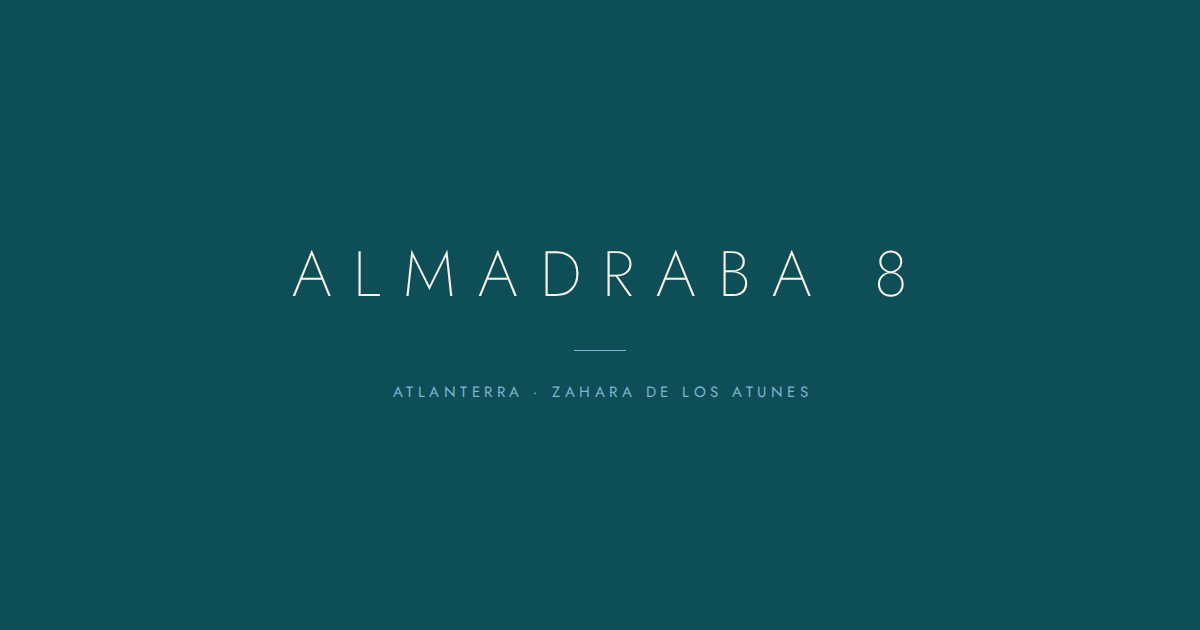
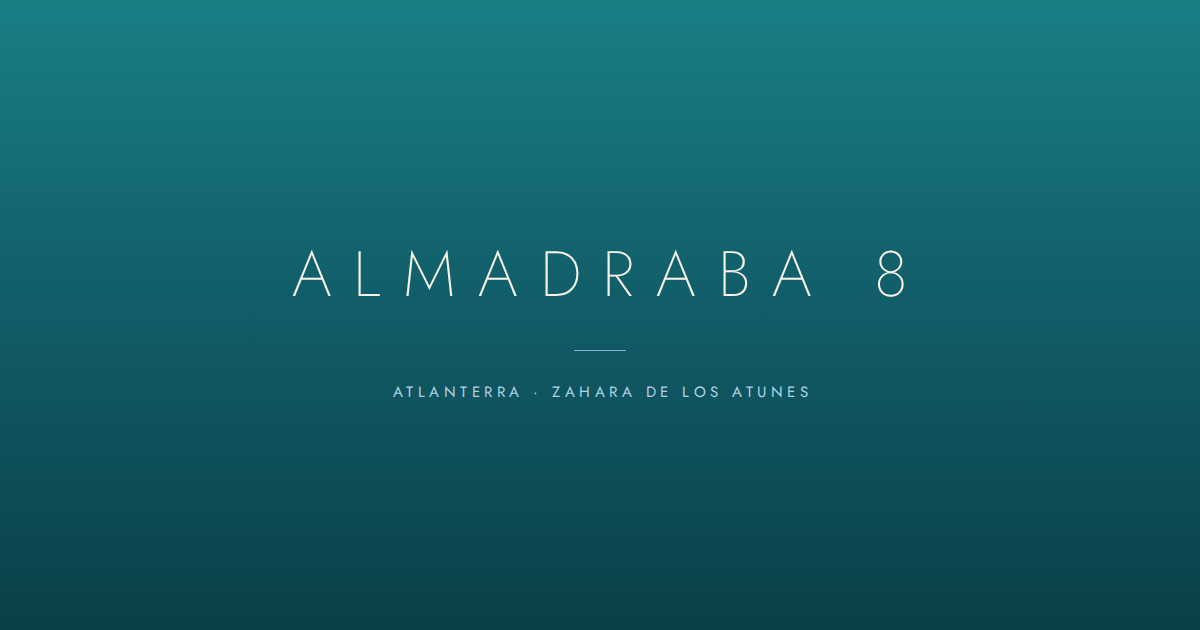
Paleta «mar, cielo y arena»: la marca deja de leer verde pino
El #12706C aprobado es cian (tono 177°), pero a L*42 el ojo no dispone
de la categoría «turquesa» para un cian oscuro y lo lee como pino.
Además el turquesa mar y el azul cielo solo aparecían en estados hover,
así que la superficie con color de la web era íntegramente cian oscuro.

- Tinta de marca a #15747F (tono 186°, hacia el mar) manteniendo el
  mismo peso: 4,62:1 sobre arena.
- Banda de disponibilidad de #0E4E56 a #115F6B, y pie a #0B3F47:
  la página termina en mar hondo, no en carbón verdoso.
- Degradado del hero reescrito: cielo arriba, turquesa mar en medio,
  mar abajo, en lugar de petróleo plano.
- Turquesa mar con papel real: separador de la vivienda, estado LIBRE
  (en #8FD8D3, legible sobre la banda) y hovers sobre fondo oscuro.
- Kicker de #8A8071 a #716A5C: el original daba 3,27:1 y no cumplía AA.
- Regla nueva de interacción: sobre fondo claro el hover profundiza,
  sobre fondo oscuro aclara.

El turquesa mar no puede ser tinta de texto (2,46:1 sobre arena), así
que domina como superficie. Los 19 pares de texto del sitio quedan
verificados a WCAG AA. Favicon y OG regenerados con los colores nuevos.
El manual archivado conserva la paleta original; CLAUDE.md documenta
la revisión y el motivo.

Claude-Session: https://claude.ai/code/session_01BjvcUjNyTZDfZqHgy6SqCo

diff --git a/src/styles/global.css b/src/styles/global.css
@@ -26,24 +26,31 @@
 }
 
 :root {
-  /* Color */
-  --sand: #F3EBDA;
-  --sand-2: #E5DAC2;
-  --sand-3: #F8F3E7;
-  --teal: #12706C;
-  --teal-light: #3AA79F;
-  --sky: #7FB4D4;
-  --night: #0E4E56;
+  /* Color — «mar, cielo y arena»
+     El turquesa domina como SUPERFICIE (banda, degradado, acentos);
+     la tinta de texto se mantiene lo bastante profunda para cumplir
+     WCAG AA (4.5:1). Todos los pares verificados. */
+  --sand: #F3EBDA;         /* arena de playa — fondo */
+  --sand-2: #E5DAC2;       /* arena media — banda secundaria */
+  --sand-3: #F8F3E7;       /* arena clara — campos y superficies */
+  --teal: #15747F;         /* tinta de marca — mar profundo (186°) */
+  --teal-deep: #0E5A63;    /* hover de botón primario */
+  --sea: #3AA79F;          /* turquesa mar — acentos y filetes sobre claro */
+  --sea-light: #8FD8D3;    /* turquesa legible sobre fondo oscuro */
+  --sky: #7FB4D4;          /* azul cielo */
+  --sky-on-dark: #AFD3E6;  /* cielo legible sobre fondo oscuro */
+  --night: #115F6B;        /* mar al atardecer — fondo de banda */
+  --abyss: #0B3F47;        /* mar hondo — pie y texto sobre cielo */
   --dune: #B7A98C;
   --ink: #26312F;
   --ink-soft: #5C6C69;
-  --muted: #8A8071;
+  --muted: #716A5C;        /* kickers — oscurecido para cumplir AA */
   --line: #E2D8C1;
   --line-2: #DACFB6;
   --line-3: #C9BC9E;
   --on-dark: #F8F3E7;
-  --on-dark-soft: #BFD4D6;
-  --on-dark-muted: #8F9C99;
+  --on-dark-soft: #C6DCE2;
+  --on-dark-muted: #9DB2B5;
 
   /* Tipografía */
   --font-sans: 'Jost', 'Avenir Next', 'Century Gothic', system-ui, sans-serif;
@@ -81,7 +88,7 @@ body {
 }
 
 a { color: var(--teal); text-decoration: none; transition: color var(--transition); }
-a:hover { color: var(--teal-light); }
+a:hover { color: var(--teal-deep); }
 
 img { max-width: 100%; display: block; }
 
@@ -149,7 +156,7 @@ img { max-width: 100%; display: block; }
   cursor: pointer;
   transition: background var(--transition);
 }
-.btn:hover { background: var(--night); color: var(--sand); }
+.btn:hover { background: var(--teal-deep); color: var(--sand); }
 
 /* Fade-in sutil al entrar en viewport.
    Solo se activa cuando hay JS (html.js): sin JS todo es visible. */

diff --git a/CLAUDE.md b/CLAUDE.md
@@ -12,22 +12,35 @@ Wordmark arquitectónico (opción 2a) con paleta Zahara. Manual completo en `Alm
 - **Cormorant Garamond** — voz editorial: descriptores, citas, bienvenida. Nunca en caja alta ni con tracking amplio.
 - **Marcellus** — titulares de documentación/manual.
 
-## Paleta (HEX)
-| Rol | HEX |
-| --- | --- |
-| Arena clara (fondo) | #F3EBDA |
-| Arena media | #E5DAC2 |
-| Turquesa profundo (tinta de marca) | #12706C |
-| Turquesa mar | #3AA79F |
-| Azul cielo (acompaña) | #7FB4D4 |
-| Azul noche (fondo oscuro) | #0E4E56 |
-| Duna | #B7A98C |
-| Carbón cálido (texto) | #26312F |
+## Paleta (HEX) — revisión «mar, cielo y arena» (2026-08)
 
-Regla: arena siempre de fondo; turquesa profundo como tinta única de marca; azul cielo solo en filetes y descriptores — nunca los dos azules al mismo peso.
+| Rol | HEX | Nota |
+| --- | --- | --- |
+| Arena clara (fondo) | #F3EBDA | sin cambio |
+| Arena media | #E5DAC2 | sin cambio |
+| Arena superficie | #F8F3E7 | campos y tarjetas |
+| Tinta de marca — mar profundo | #15747F | **revisado** (antes #12706C) |
+| Mar profundo hover | #0E5A63 | hover sobre fondo claro |
+| Turquesa mar | #3AA79F | acentos y filetes sobre claro |
+| Turquesa claro | #8FD8D3 | turquesa legible sobre fondo oscuro |
+| Azul cielo | #7FB4D4 | filetes, botón «Solicitar» |
+| Azul cielo sobre oscuro | #AFD3E6 | kickers sobre banda |
+| Mar al atardecer (fondo oscuro) | #115F6B | **revisado** (antes #0E4E56) |
+| Mar hondo | #0B3F47 | pie y texto sobre azul cielo |
+| Duna | #B7A98C | |
+| Carbón cálido (texto) | #26312F | |
+| Kicker | #716A5C | **revisado** (antes #8A8071, no cumplía AA) |
+
+**Por qué la revisión.** El #12706C original tiene tono 177° — cian, no verde — pero a L\*42 el ojo no dispone de la categoría «turquesa» para un cian oscuro y lo lee como pino. La revisión desplaza la tinta a 186° manteniendo el mismo peso (4,62:1 sobre arena), aclara la banda oscura hacia el mar y da papel real al turquesa y al azul cielo, que antes solo aparecían en estados hover.
+
+**Restricción que no se puede saltar.** El turquesa mar #3AA79F sobre arena da 2,46:1: no sirve como color de texto ni como fondo de botón. El turquesa domina como *superficie* (degradado del hero, banda, acentos), nunca como tinta de texto pequeño. Todos los pares de texto del sitio están verificados a WCAG AA (4,5:1; 3:1 en texto grande).
+
+**Regla cromática.** Arena siempre de fondo. La tinta de marca es una sola. Sobre fondo claro el hover profundiza (#0E5A63); sobre fondo oscuro aclara (#8FD8D3). El azul cielo y el turquesa mar acompañan y no compiten con la tinta.
+
+> Nota: el manual archivado en `design/Almadraba 8 - Identidad.dc.html` conserva la paleta original aprobada. Esta tabla es la que rige la web.
 
 ## Reglas de uso
-- Sí: fondo arena o azul noche; wordmark con su tracking original; sobre foto solo en blanco y en zona tranquila; por debajo del mínimo (28 mm / 120 px) usar el monograma **A8**.
+- Sí: fondo arena o mar al atardecer; wordmark con su tracking original; sobre foto solo en blanco y en zona tranquila; por debajo del mínimo (28 mm / 120 px) usar el monograma **A8**.
 - No: condensar o ensanchar; negritas; sombras, contornos o degradados en el logo; cajas de color alrededor del wordmark; traducir el nombre; escribir "Almadraba 08" como marca (el 08 solo en el dominio y en recursos gráficos).
 - Área de seguridad: la altura de la "A" por cada lado.
 

diff --git a/README.md b/README.md
@@ -56,4 +56,6 @@ design/
 
 ## Identidad
 
-Resumen operativo en `CLAUDE.md`; manual completo en `design/Almadraba 8 - Identidad.dc.html` y handoff en `design/README-handoff.md`. Reglas clave: arena de fondo, turquesa `#12706C` como tinta única de marca, azul cielo `#7FB4D4` solo de acompañamiento; wordmark Jost 200 en caja alta con su tracking intacto y `white-space: nowrap`; sin border-radius, sin sombras decorativas, sin iconografía de playa; la marca se escribe siempre «Almadraba 8».
+La paleta de la web es la revisión «mar, cielo y arena» documentada en `CLAUDE.md`, con todos los pares de texto verificados a WCAG AA.
+
+Resumen operativo en `CLAUDE.md`; manual completo en `design/Almadraba 8 - Identidad.dc.html` y handoff en `design/README-handoff.md`. Reglas clave: arena de fondo, mar profundo `#15747F` como tinta única de marca, con el turquesa mar `#3AA79F` y el azul cielo `#7FB4D4` como acentos de superficie; wordmark Jost 200 en caja alta con su tracking intacto y `white-space: nowrap`; sin border-radius, sin sombras decorativas, sin iconografía de playa; la marca se escribe siempre «Almadraba 8».
